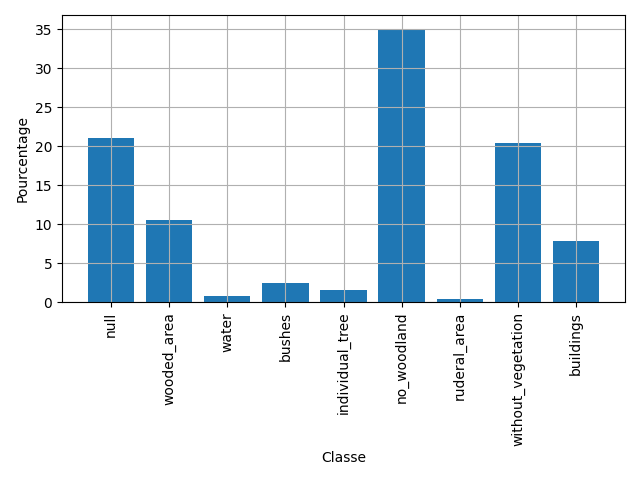
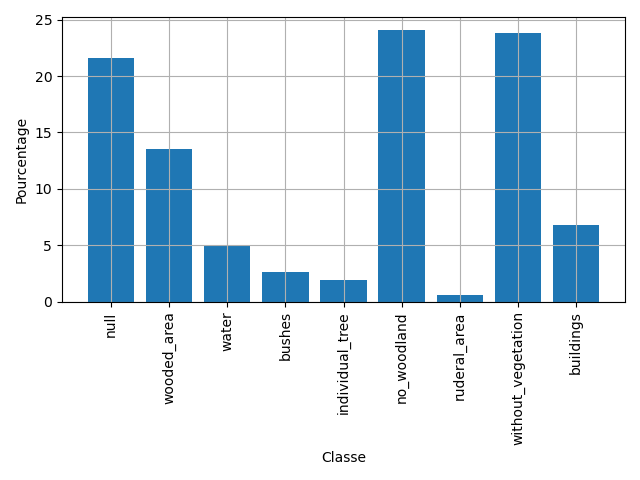
histogram

diff --git a/test.py b/test.py
@@ -48,7 +48,7 @@ if __name__ == "__main__":
     # net = BayesianUNet(n_channels=7, n_classes=9, bilinear=args.bilinear)
 
     # load pretrained model parameters
-    checkpoint_path = 'checkpoints/checkpoint_epoch50.pth'
+    checkpoint_path = 'checkpoints_final_model/checkpoint_epoch28.pth'
     net.load_state_dict(torch.load(checkpoint_path, map_location=device))
     logging.info(f'Model loaded from {checkpoint_path}')
 

diff --git a/gt_histogram.py b/gt_histogram.py
@@ -4,7 +4,7 @@ from torch.utils.data import DataLoader
 import matplotlib.pyplot as plt
 from tqdm import tqdm
 
-bbkd = BBKDataset(zone = ("genf",),split="all", augment=True)
+bbkd = BBKDataset(zone = ("alles",),split="all", augment=True)
 dl = DataLoader(bbkd, batch_size=64, shuffle=True)
 counts_cumulated = torch.tensor([0,0,0,0,0,0,0,0,0])
 for x in tqdm(dl):
